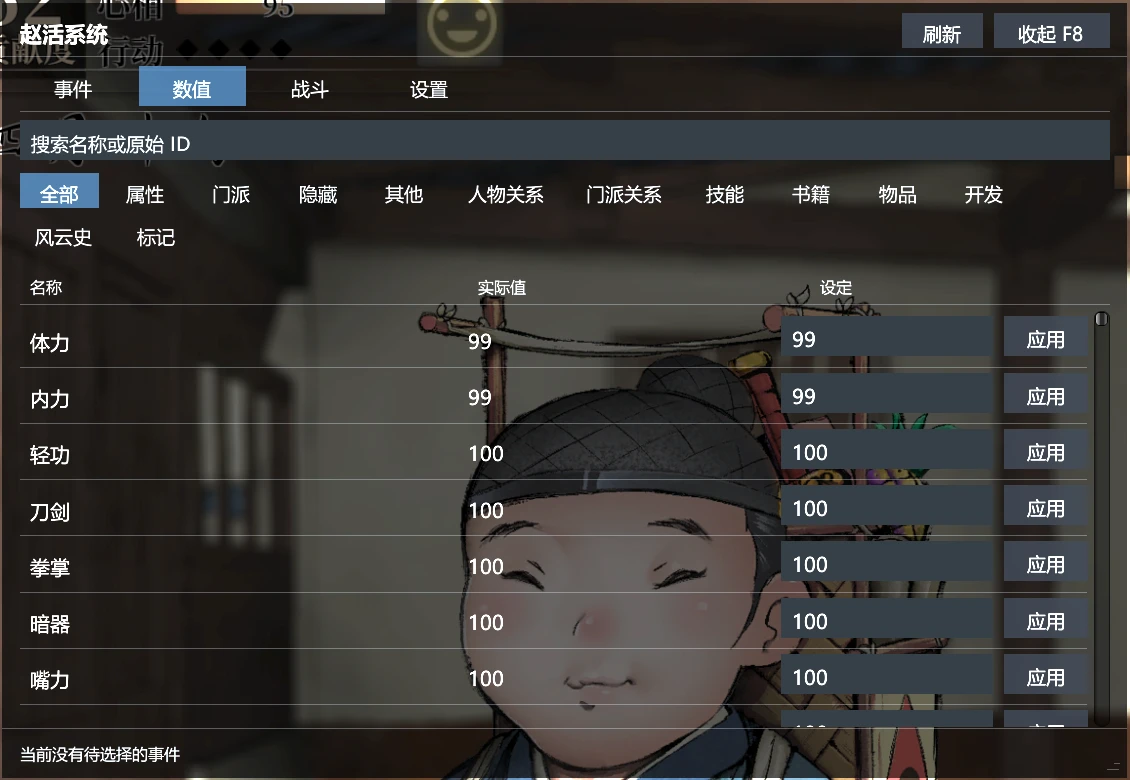
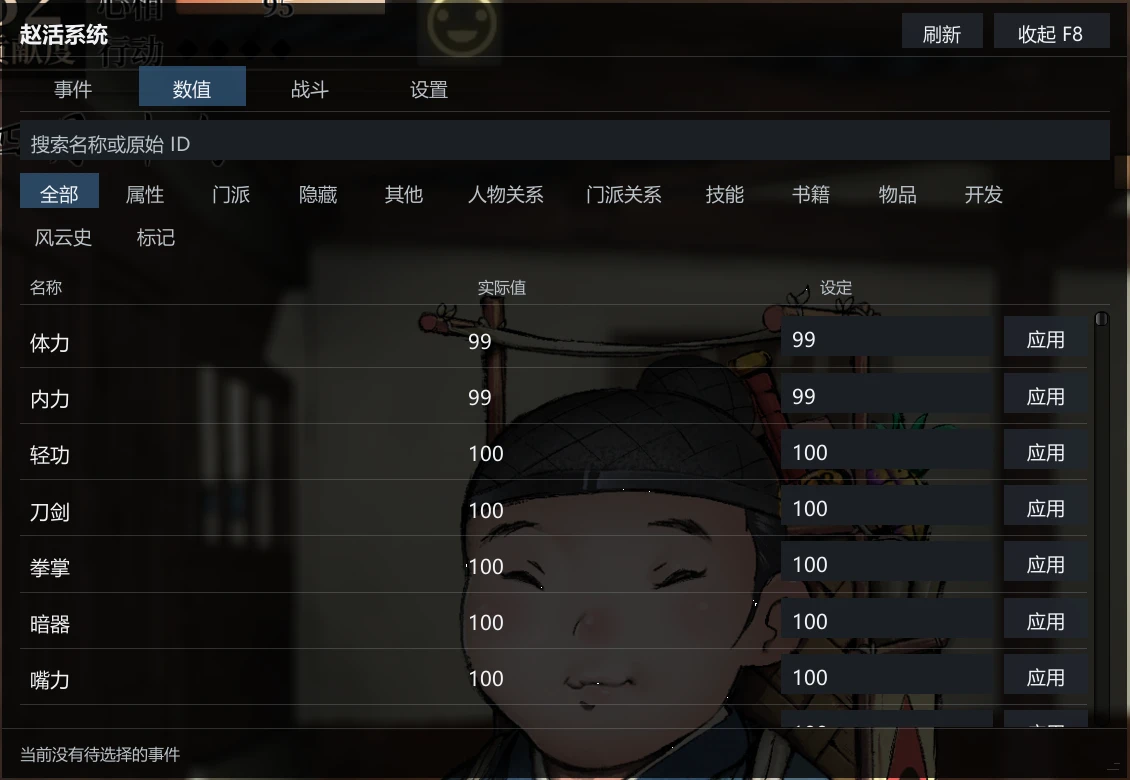
Recapture README media without HDR and drop the duel animation
The earlier captures were taken with Windows Auto HDR on, which clipped up to
half of each frame to white. All stills and the event and dice animations are
recaptured on an SDR display. Combat is shown by its settings tab only.

diff --git a/README.en.md b/README.en.md
@@ -48,8 +48,6 @@ The in-game panel follows the game's language and is available in Simplified Chi
 
   <img src="media/battle-tab.webp" width="560" alt="Combat switches">
 
-  <img src="media/duel.webp" width="720" alt="Turn-based duel with god mode and one-hit kill on">
-
 - **Screenshots**: hide everything the mod draws with one switch or a hotkey of your choice.
 
 ## Install

diff --git a/README.ko.md b/README.ko.md
@@ -49,8 +49,6 @@
 
   <img src="media/battle-tab.webp" width="560" alt="전투 탭 스위치">
 
-  <img src="media/duel.webp" width="720" alt="턴제 결투: 무적과 일격필살 켜기">
-
 - **스크린샷**: 모드가 표시하는 화면을 한 번에 숨길 수 있고, 단축키도 지정할 수 있습니다.
 
 ## 설치

diff --git a/README.md b/README.md
@@ -46,8 +46,6 @@
 
   <img src="media/battle-tab.webp" width="560" alt="战斗页开关">
 
-  <img src="media/duel.webp" width="720" alt="回合制决斗：开启无敌和一击必杀">
-
 - **截图**：可以一键隐藏模组的全部界面，也可以给它绑定快捷键。
 
 ## 安装

diff --git a/README.zh-Hant.md b/README.zh-Hant.md
@@ -46,8 +46,6 @@
 
   <img src="media/battle-tab.webp" width="560" alt="戰鬥頁開關">
 
-  <img src="media/duel.webp" width="720" alt="回合制決鬥：開啟無敵和一擊必殺">
-
 - **截圖**：可以一鍵隱藏模組的全部介面，也可以為它設定快捷鍵。
 
 ## 安裝
